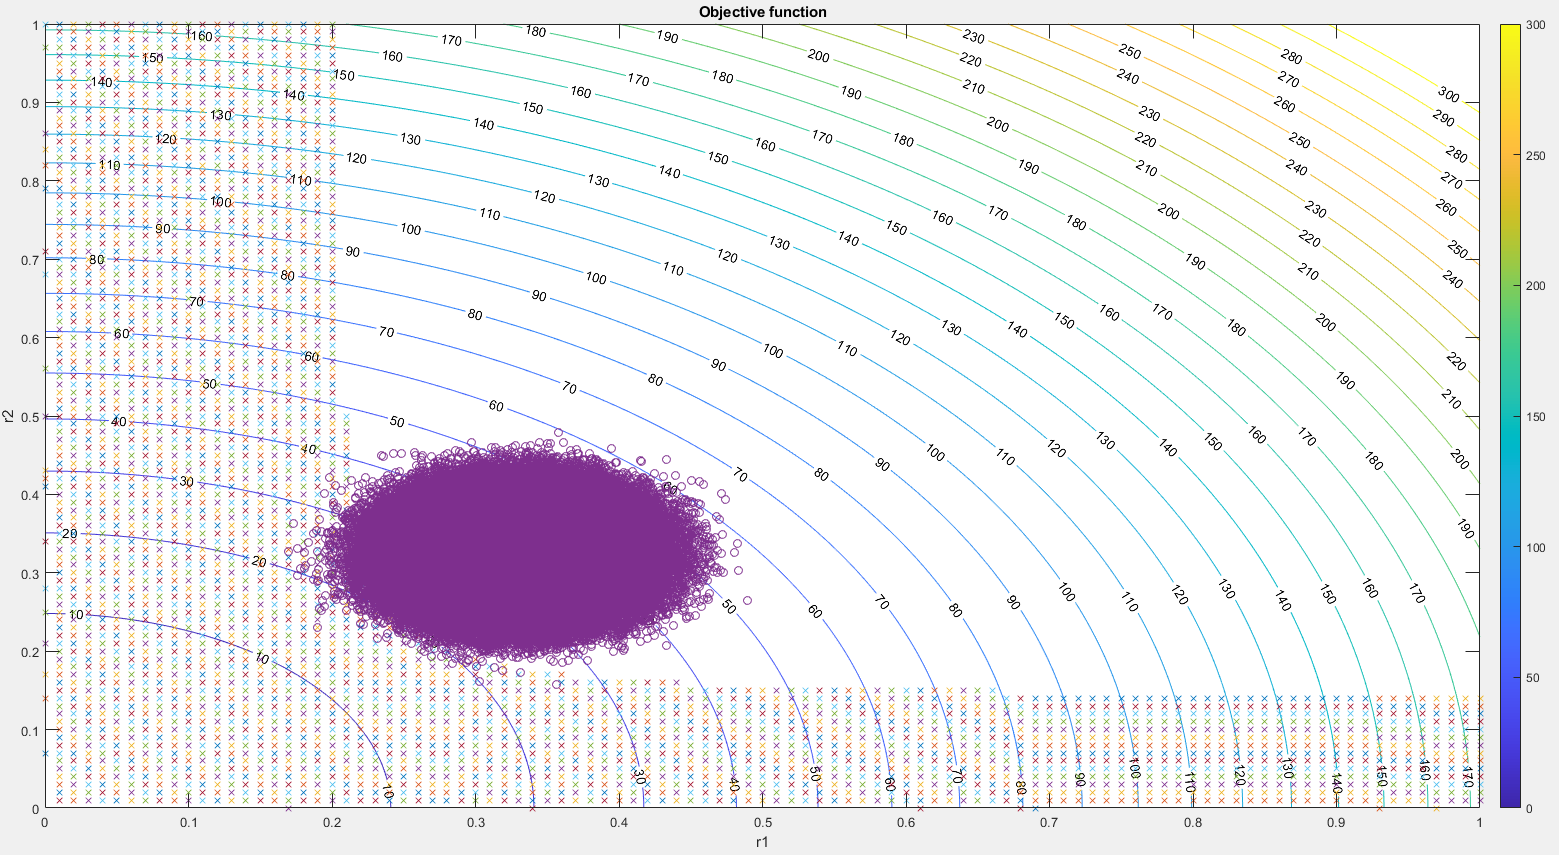
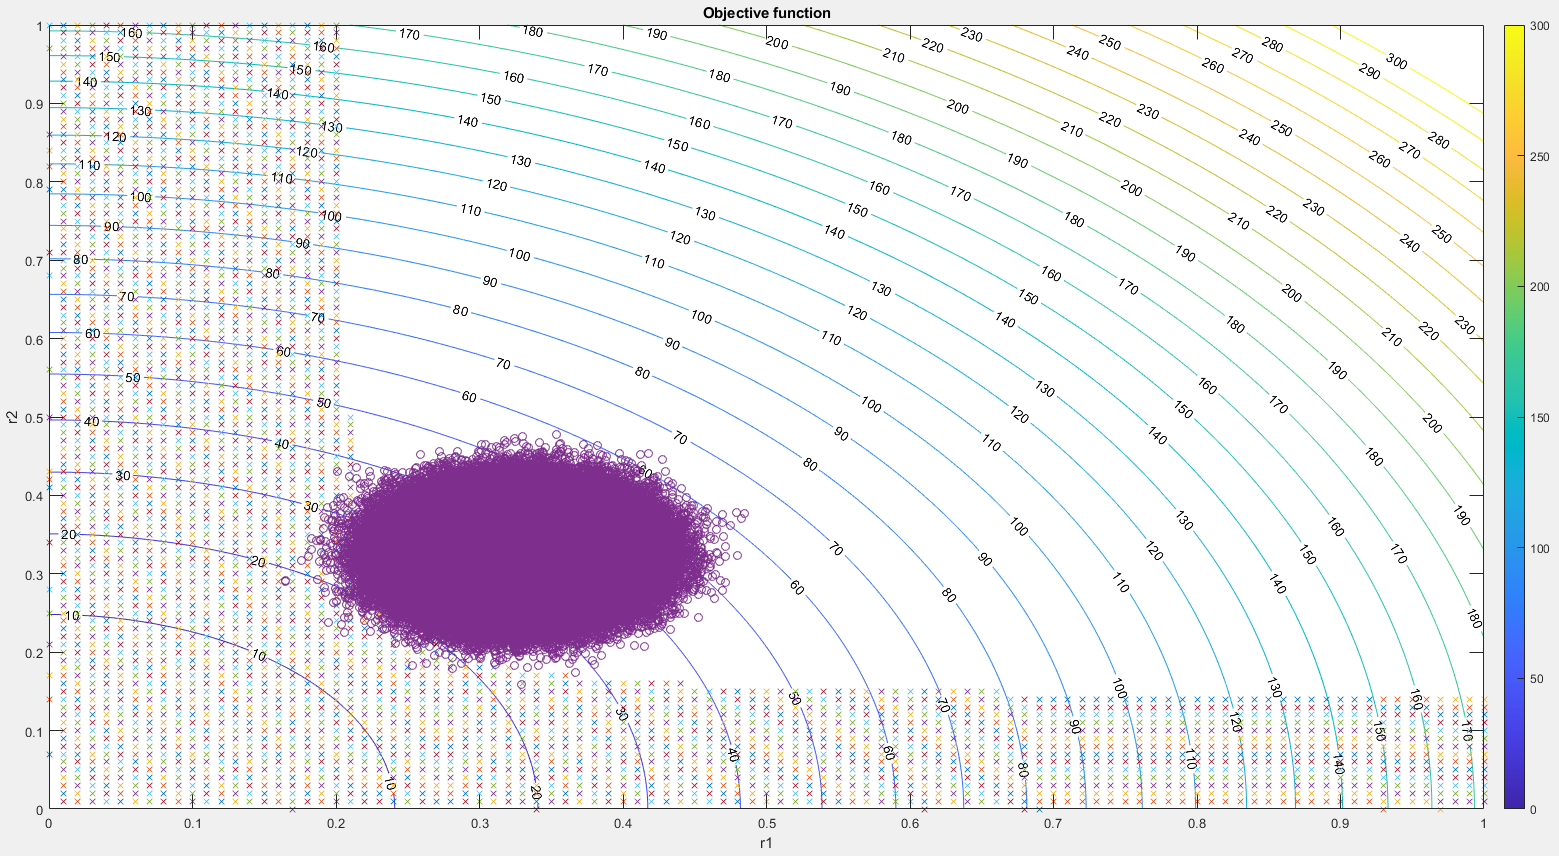
Update examples.

diff --git a/homework6-matlab/main.m b/homework6-matlab/main.m
@@ -10,18 +10,17 @@ E = 200e9;  % unit: Pa
 Pf = pi * pi * E / 4;  % P factor unit: N
 sigma_y = 250e6;  % unit: Pa
 
-pt = [0.3366, 0.35];
-lb = [1e-6, 1e-6];
-ub = [1, 1];
+pt = [0.3293, 0.3246];
+lb = [1e-4, 1e-4];
 obj = @(x) 6 * pi * x(1) * x(1) * l + 4 * pi * x(2) * x(2) * sqrt(2) * l;
-op1 = optimoptions(@fmincon, 'Algorithm', 'sqp', 'MaxIterations', 1500, 'Display', 'iter');
+op1 = optimoptions(@fmincon, 'Algorithm', 'sqp', 'Display', 'iter','MaxIterations',1500,'MaxFunctionEvaluations',1e4);
 op2 = optimoptions(@ga, 'Display', 'iter', 'PopulationSize', 100, 'MaxGenerations', 500, 'MutationFcn', {@mutationadaptfeasible, 0.001});
 
 %% Q1
 N = 1e2;
 x(1:3, 2) = 0;
-[x(1, :), fval(1), flag(1), out] = fmincon(obj, pt, [], [], [], [], lb, ub, @monte_carlo, op1);
-%[x(1, :), fval(1), flag(1), out] = ga(obj, 2, [], [], [], [], lb, ub, @monte_carlo, op1);
+[x(1, :), fval(1), flag(1), out] = fmincon(obj, pt, [], [], [], [], lb, [], @monte_carlo, op1);
+%[x(1, :), fval(1), flag(1), out] = ga(obj, 2, [], [], [], [], lb, [], @monte_carlo, op1);
 if flag(1) == 1
     fprintf("algorithm: %s\n", out.algorithm);
     fprintf("(iter: %d, step: %i)\n", out.iterations, out.stepsize);
@@ -33,8 +32,8 @@ toc;
 
 %% Q2
 N = 1e6;
-[x(2, :), fval(2), flag(2), out] = fmincon(obj, pt, [], [], [], [], lb, ub, @monte_carlo, op1);
-% [x(2, :), fval(2), flag(2), out] = ga(obj, 2, [], [], [], [], lb, ub, @monte_carlo, op1);
+[x(2, :), fval(2), flag(2), out] = fmincon(obj, pt, [], [], [], [], lb, [], @monte_carlo, op1);
+% [x(2, :), fval(2), flag(2), out] = ga(obj, 2, [], [], [], [], lb, [], @monte_carlo, op1);
 if flag(2) == 1
     fprintf("algorithm: %s\n", out.algorithm);
     fprintf("(iter: %d, step: %i)\n", out.iterations, out.stepsize);
@@ -45,7 +44,7 @@ end
 toc;
 
 %% Q3
-[x(3, :), fval(3), flag(3), out] = fmincon(obj, pt, [], [], [], [], lb, ub, @fosm, op1);
+[x(3, :), fval(3), flag(3), out] = fmincon(obj, pt, [], [], [], [], lb, [], @fosm, op1);
 if flag(3) == 1
     fprintf("algorithm: %s\n", out.algorithm);
     fprintf("(iter: %d, step: %i)\n", out.iterations, out.stepsize);
@@ -70,8 +69,8 @@ for r1 = 0:0.01:1
         end
     end
 end
-% r = pt;
-r = [0.3292, 0.3247];
+% r = [0.3292, 0.3247];
+r = x(3, :);
 rnd = mvnrnd(r, (r / 10).^2 .* [1, 0; 0, 1], N);
 plot(rnd(:, 1), rnd(:, 2), 'o');
 xlabel('r1');

diff --git a/homework6-matlab/fosm.m b/homework6-matlab/fosm.m
@@ -55,7 +55,7 @@ sigma_g(1:6) = sigma_f(@g1);
 sigma_g(7:10) = sigma_f(@g2);
 sigma_g(11:20) = sigma_f(@g3);
 sigma_g(21) = sigma_f(@g4);
-C = 1 - normcdf(-mu_g ./ sigma_g) - 0.0013;
+C = 1 - normcdf(-mu_g ./ sigma_g) - 0.001;
 
 %% Equality Constraints
 Ceq = [];

diff --git a/homework6-matlab/monte_carlo.m b/homework6-matlab/monte_carlo.m
@@ -24,7 +24,7 @@ for i = 1:N
 end
 
 %% Inequality Constraints
-C = g / N - 0.0013;
+C = g / N - 0.001;
 
 %% Equality Constraints
 Ceq = [];

diff --git a/homework6.md b/homework6.md
@@ -4,7 +4,7 @@ Class: ME7129 Optimization in Engineering, National Taiwan University.
 
 Student: Yuan Chang
 
-Due date: 2019-12-24
+Due date: 2019-12-27
 
 This PDF is generated from Markdown[@homework6-md], scripting in Matlab[@homework6-ml].
 
@@ -16,13 +16,17 @@ $$
 \begin{aligned}
 \min_{r_1, r_2} f &= 6\pi r_1^2l + 4\pi r_2^2\sqrt{2}l
 \\
-F'_i &\le P_i^c = \frac{\pi^2EI}{l_i'^2}
+\text{subject to } (F_{\text{new}})_i &\le P_i^c = \frac{\pi^2EI}{(l_{\text{new}})_i^2}
 \\
 \sigma_i &\le \sigma_Y
 \\
 \delta_2 &\le 0.02
+\\
+i &= \{c \in \mathbb{Z} | 1 \le c \le 10\}
 \end{aligned}
 $$
+
+Where the subscript "new" is present that the value is calculated from the FEA function.
 
 The parameters are: $\rho$, $F$, $E$, $l$ and $\sigma_Y$:
 
@@ -49,9 +53,15 @@ and forces $F$ replaced with $F_{\text{Random}}$ using Gaussian distribution.
 
 $$
 \begin{aligned}
-R &= N(r, (0.1r)^2)
+0 &< r < \infty
 \\
-F_{\text{Random}} &= N(F, |0.1F|^2)
+\sigma_r &= (0.1r)^2
+\\
+\sigma_F &= (0.1F)^2
+\\
+R &= N(r, \sigma_r)
+\\
+F_{\text{Random}} &= N(F, \sigma_F)
 \end{aligned}
 $$
 
@@ -59,15 +69,15 @@ Expand and normalize the constraints into negative null form:
 
 $$
 \begin{aligned}
-F_i' &= |\sigma_i| A_i = |\sigma_i| \pi r_i^2
+(F_{\text{new}})_i &= |\sigma_i| A_i = |\sigma_i| \pi r_i^2
 \\
 I_i &= \frac{\pi r_i^4}{4}
 \\
-P_i^c &= \frac{\pi^3 r_i^4 E}{4l_i'^2}
+P_i^c &= \frac{\pi^3 r_i^4 E}{4(l_{\text{new}})_i^2}
 \\
-g_{1\sim6} &= |\sigma_{1\sim6}| \pi r_1^2 - \frac{\pi^3r_1^2E}{4l_{1\sim6}'^2} \le 0
+g_{1\sim6} &= |\sigma_{1\sim6}| \pi r_1^2 - \frac{\pi^3r_1^2E}{4(l_{\text{new}})_{1\sim6}^2} \le 0
 \\
-g_{7\sim10} &=  |\sigma_{7\sim10}| \pi r_2^2 - \frac{\pi^3r_2^2E}{4l_{7\sim10}'^2} \le 0
+g_{7\sim10} &=  |\sigma_{7\sim10}| \pi r_2^2 - \frac{\pi^3r_2^2E}{4(l_{\text{new}})_{7\sim10}^2} \le 0
 \\
 g_{11\sim20} &= |\sigma_{1\sim10}| - \sigma_Y \le 0
 \\
@@ -81,9 +91,9 @@ $$
 \begin{aligned}
 \min_{r_1, r_2} f &= 6\pi r_1^2l + 4\pi r_2^2\sqrt{2}l
 \\
-g_{1\sim6} &= \text{Pr}[|\sigma_{1\sim6}| \pi R_1^2 - \frac{\pi^3R_1^2E}{4l_{1\sim6}'^2} > 0] - 0.0013 \le 0
+\text{subject to } g_{1\sim6} &= \text{Pr}[|\sigma_{1\sim6}| \pi R_1^2 - \frac{\pi^3R_1^2E}{4(l_{\text{new}})_{1\sim6}^2} > 0] - 0.0013 \le 0
 \\
-g_{7\sim10} &=  \text{Pr}[|\sigma_{7\sim10}| \pi R_2^2 - \frac{\pi^3R_2^2E}{4l_{7\sim10}'^2} > 0] - 0.0013 \le 0
+g_{7\sim10} &=  \text{Pr}[|\sigma_{7\sim10}| \pi R_2^2 - \frac{\pi^3R_2^2E}{4(l_{\text{new}})_{7\sim10}^2} > 0] - 0.0013 \le 0
 \\
 g_{11\sim20} &= \text{Pr}[|\sigma_{1\sim10}| - \sigma_Y > 0] - 0.0013 \le 0
 \\
@@ -91,13 +101,23 @@ g_{21} &= \text{Pr}[\delta_2 - 0.02 > 0] - 0.0013 \le 0
 \end{aligned}
 $$
 
-Where $l_i'$, $\delta_i$ and $\sigma_i$ are calculated by uncertainties $R$ and $F_{\text{Random}}$.
+Where $(l_{\text{new}})_i$, $\delta_i$ and $\sigma_i$ are calculated by uncertainties $R$ and $F_{\text{Random}}$.
 
 The $\text{Pr}$ function will sum up all happened result then divide with the total number of times.
 
 ## Please use Monte Carlo simulation with 100 samples to solve the problem. Rerun twice, are the results different? Did you face convergence difficulties? Why?
 
+Start with values $[0.3293, 0.3246]$, result flag -2 and $x$ is **lower bound**.
+
+The SQP algorithm might be confused by random gradian when searching on the unstable boundaries.
+
+After tried Genetic Algorithm, the result is also -2. Each generation runs very slowly.
+
 ## Please use Monte Carlo simulation with 1 million samples to solve the problem. Rerun twice, are the results different? Did you face convergence difficulties? Why?
+
+Start with values $[0.3293, 0.3246]$, result flag -2 and $x$ is **lower bound**.
+
+The SQP algorithm might be confused by random gradian when searching on the unstable boundaries.
 
 ## Please use FOSM to solve the problem. Use Monte Carlo to verify the failure probability at the optimal. Did you get 99% results? Why not?
 
@@ -118,6 +138,24 @@ The partial differential of the constraints can be determined by:
 $$
 \frac{\partial g_i}{\partial x_j} = \left. \frac{g_i(x_0, \dots, x_j + \Delta x_j, \dots) - g_i(x)}{\Delta x_j} \right |_{\Delta x_j\rightarrow 0^+}
 $$
+
+For the variables $r$ and $F$, the $\sigma_{g_i}$ will be:
+
+$$
+\begin{aligned}
+\sigma_{g_i} &= \sqrt{(\frac{\partial g_i}{\partial r_1}\sigma_{r_1})^2 + (\frac{\partial g_i}{\partial r_2}\sigma_{r_2})^2 + (\frac{\partial g_i}{\partial F}\sigma_F)^2}
+\\
+&= \sqrt{\begin{aligned}
+&(\frac{g_i(r_1 + \Delta r_1, r_2, F) - g_i(r_1, r_2, F)}{\Delta r_1}\sigma_{r_1})^2 +
+\\
+&(\frac{g_i(r_1, r_2 + \Delta r_2, F) - g_i(r_1, r_2, F)}{\Delta r_2}\sigma_{r_2})^2 +
+\\
+&(\frac{g_i(r_1, r_2, F + \Delta F) - g_i(r_1, r_2, F)}{\Delta F}\sigma_F)^2
+\end{aligned}}
+\end{aligned}
+$$
+
+After executed SQP algorithm with an initial values $[0.3293, 0.3246]$, the result flag is -2, but we obtained $x = [0.329818090602828, 0.323336750073526]$.
 
 ![](img/homework6.png)
 
